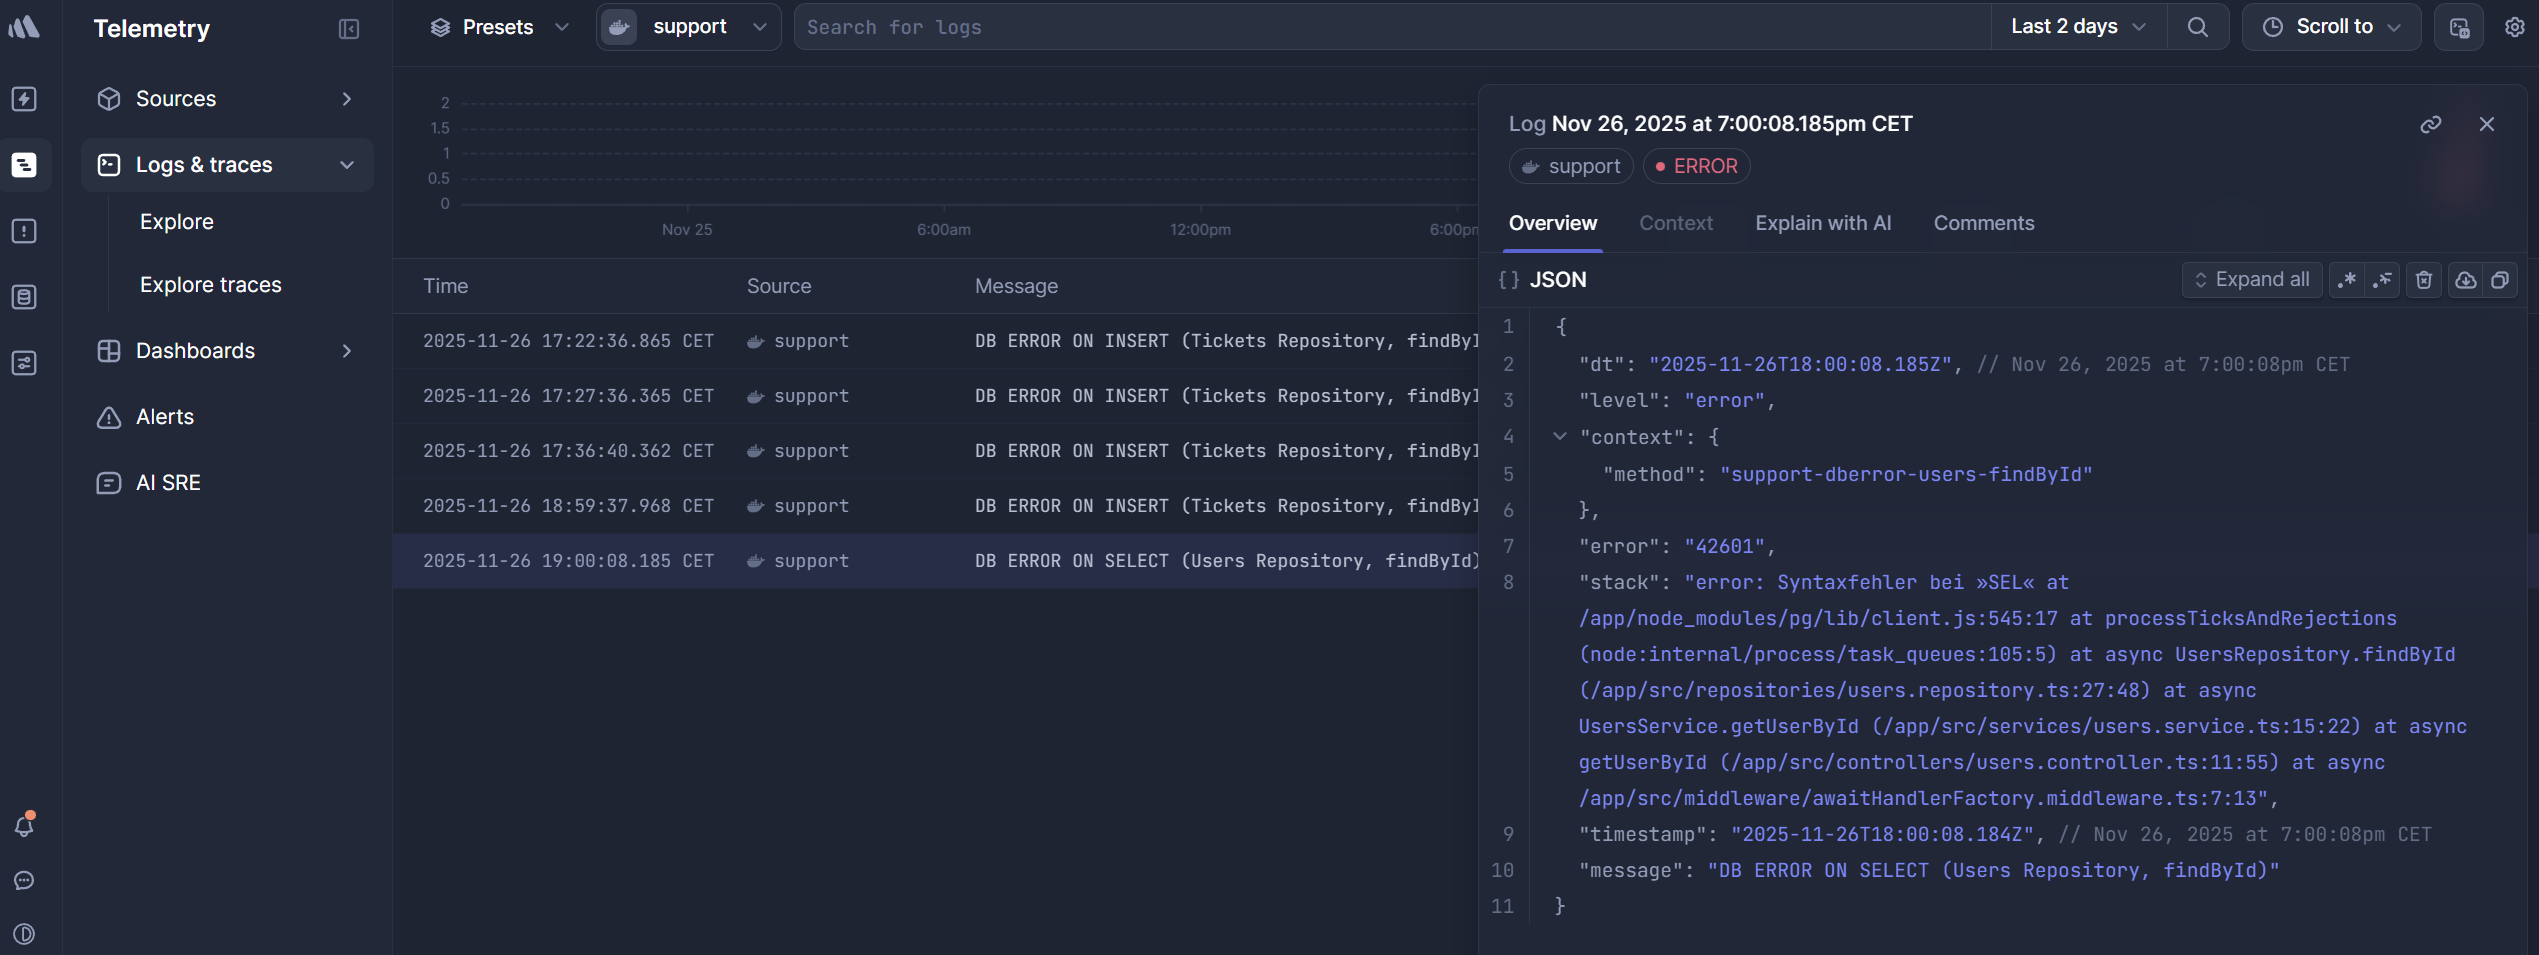
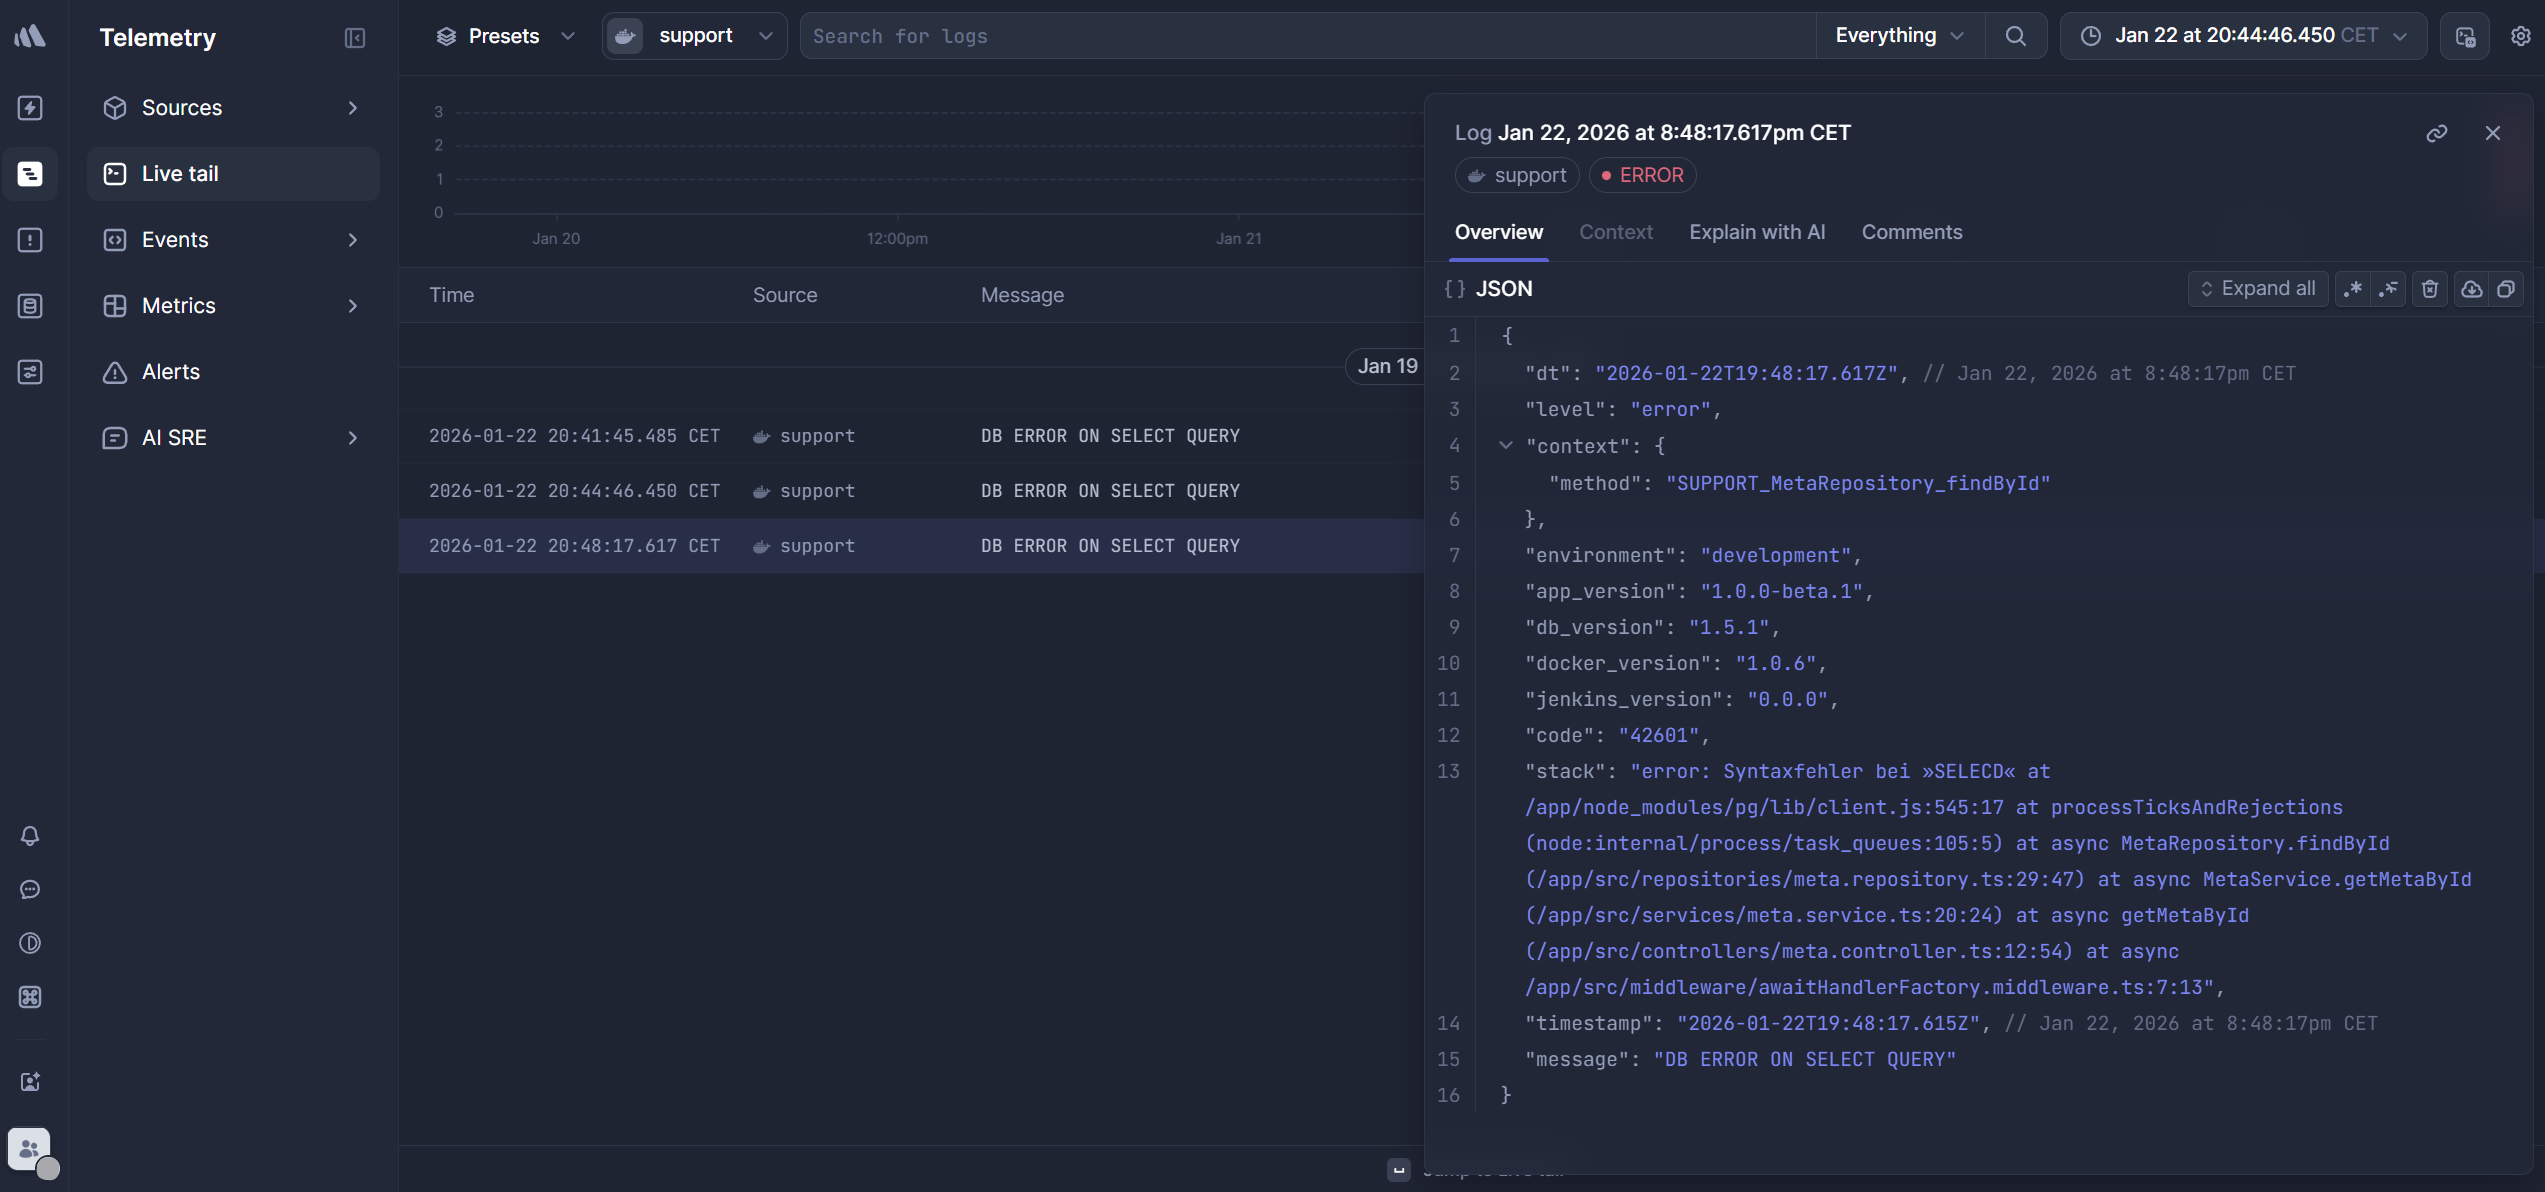
feat: add meta data to package.json, use in logger

diff --git a/backend/src/utils/secrets.utils.ts b/backend/src/utils/secrets.utils.ts
@@ -1,8 +1,11 @@
 import { Config } from'../configs/config';
 import { AuthSecretNotFoundException } from'./exceptions/auth.exception';
+import path from 'path';
 import fs from "fs";
 
 class Secrets {
+    readonly APP_VERSION: string;
+    readonly APP_META: Record<string, string>;
     readonly ADMIN_API: string;
     readonly ENV_MODE: string;
     readonly PORT: number;
@@ -35,6 +38,8 @@ class Secrets {
     private static _instance: Secrets;
 
     private constructor() {
+        this.APP_VERSION = this.getAppVersion();
+        this.APP_META = this.getAppMeta();
         this.ADMIN_API = this.setAdminApi();
         this.ENV_MODE = this.setEnvMode();
         this.PORT = this.setPort();
@@ -70,6 +75,16 @@ class Secrets {
             Secrets._instance = new Secrets();
         }
         return Secrets._instance;
+    }
+
+    private getAppVersion() {
+        let packageJSON = JSON.parse(fs.readFileSync(path.resolve(__dirname, '../../package.json'), 'utf-8'));
+        return !packageJSON ? '0.0.0' : packageJSON.version;
+    }
+
+    private getAppMeta() {
+        let packageJSON = JSON.parse(fs.readFileSync(path.resolve(__dirname, '../../package.json'), 'utf-8'));
+        return !packageJSON ? null : packageJSON.appMeta;
     }
 
     private setAdminApi() {

diff --git a/backend/src/logger/config.logger.ts b/backend/src/logger/config.logger.ts
@@ -30,6 +30,13 @@ export class Logger {
 
         this.logger = winston.createLogger({
             level: 'info',
+            defaultMeta: {
+                environment: secrets.ENV_MODE.trim(),
+                app_version: secrets.APP_VERSION.trim(),
+                db_version: secrets.APP_META.db_version.trim(),
+                docker_version: secrets.APP_META.docker_version.trim(),
+                jenkins_version: secrets.APP_META.jenkins_version.trim(),
+            },
             format: winston.format.combine(
                 winston.format.timestamp(),
                 winston.format.json()

diff --git a/backend/src/utils/common.utils.ts b/backend/src/utils/common.utils.ts
@@ -50,12 +50,13 @@ export function selectPrivateKey(source: MailSource): string {
 }
 
 export function logError(message: string, method: string, err: any) {
-    message += ` - ENV: '${secrets.ENV_MODE.trim()}'`;
     logger.error(message, {
         error: err.error,
-        code: err.code ? err.code : err.status ? err.status : null,
+        code: err.status ? err.status : err.code ? err.code : null,
         stack: err.stack,
-        context: { method: method }
+        context: {
+            method: method,
+        }
     });
 }
 

diff --git a/README.md b/README.md
@@ -1,5 +1,5 @@
 # yqni13 | support
-$\texttt{\color{teal}{v0.12.1}}$
+$\texttt{\color{teal}{v1.0.0-beta.1}}$
 
 
 <br>
@@ -54,10 +54,10 @@ The development process is structured by the TDD (test driven development) princ
 ### $\textsf{\color{teal}Logging}$
 
 To monitor errors the logging framework `Winston` is used in combination with Logtail from `Betterstack` as a Singleton: [config](./backend/src/logger/config.logger.ts)
-<br>While working within local (DEV) or test environment, error messages are logged into the consoles. For the deployed environments (STAG/PROD) the logging is set to send logtails to Betterstack (longer storage time than app-hosting service). For easy access and monitoring of error messages, the Betterstack UI client dashboard comes in handy (see Figure 1). 
+<br>While working within local (DEV) or test environment, error messages are logged into the consoles. For the deployed environments (STAG/PROD) the logging is set to send logtails to Betterstack (longer storage time than app-hosting service). For easy access and monitoring of error messages, the Betterstack UI client dashboard comes in handy (see Figure 1). Additional meta data (environment + version numbers) help identifying and assigning errors.
 <div align="center">
     <img src="assets/img/betterstack_logging.png" alt="&nbsp;Betterstack logging dashboard">
-    Figure 1 - Betterstack logging dashboard, v0.9.4
+    Figure 1 - Betterstack logging dashboard, v1.0.0-beta.1
 </div>
 
 <br>
@@ -124,8 +124,14 @@ Preventing an unwanted merge with unfinished/failed test run, the project is set
 
 ### $\textsf{\color{forestgreen}last update:}$
 
-$\textsf{[v0.12.0\ =>\ {\textbf{\color{brown}v0.12.1}]}}$ app<br>
-- $\textsf{\color{orange}Patch:}$ Refactored clients response mapping.
+$\textsf{[v0.12.1\ =>\ {\textbf{\color{brown}v1.0.0-beta.1}]}}$ app<br>
+$\textsf{[v1.5.1\ =>\ {\textbf{\color{brown}v1.5.2}]}}$ database
+- $\textsf{\color{teal}Addition:}$ Added version based data to file 'package.json' for main usage (static in-memory) => first official beta version 🎉.
+- $\textsf{\color{orange}Patch:}$ Updated:
+  + logger to use version data in central configuration (defaultMeta).
+  + version validation to enable pre-release structures (SemVer Specification 9).
+  + maintenance mode options (additional mode for blocking by penalty for traffic).
+  + migration to add 'maintenance_mode' to table 'meta' with the new correct default value ('E-000' => 'A-000').
 
 <br>
 

diff --git a/docs/CHANGELOG.md b/docs/CHANGELOG.md
@@ -4,9 +4,22 @@
 
 <br>
 
+### $\textsf{\color{skyblue}2026/01/22}$
+
+$\textsf{[v0.12.1\ =>\ {\textbf{\color{brown}v1.0.0-beta.1}]}}$ app<br>
+$\textsf{[v1.5.1\ =>\ {\textbf{\color{brown}v1.5.2}]}}$ database
+- $\textsf{\color{teal}Addition:}$ Added version based data to file 'package.json' for main usage (static in-memory) => first official beta version 🎉.
+- $\textsf{\color{orange}Patch:}$ Updated:
+  + logger to use version data in central configuration (defaultMeta).
+  + version validation to enable pre-release structures (SemVer Specification 9).
+  + maintenance mode options (additional mode for blocking by penalty for traffic).
+  + migration to add 'maintenance_mode' to table 'meta' with the new correct default value ('E-000' => 'A-000').
+
+<br>
+
 ### $\textsf{\color{skyblue}2025/12/25}$
 
-$\textsf{[v0.12.0\ =>\ {\textbf{\color{brown}v0.12.1}]}}$ app<br>
+$\textsf{[v0.12.0\ =>\ v0.12.1]}$ app<br>
 - $\textsf{\color{orange}Patch:}$ Refactored clients response mapping.
 
 <br>
@@ -14,7 +27,7 @@ $\textsf{[v0.12.0\ =>\ {\textbf{\color{brown}v0.12.1}]}}$ app<br>
 ### $\textsf{\color{skyblue}2025/12/22}$
 
 $\textsf{[v0.11.1\ =>\ v0.12.0]}$ app<br>
-$\textsf{[v1.5.0\ =>\ {\textbf{\color{brown}v1.5.1}]}}$ database
+$\textsf{[v1.5.0\ =>\ v1.5.1]}$ database
 - $\textsf{\color{teal}Addition:}$ Added logic to handle penalties (limit violations only currently).
 - $\textsf{\color{orange}Patch:}$ Added migration to update 'clients' table by adding 'flag' property.
 
